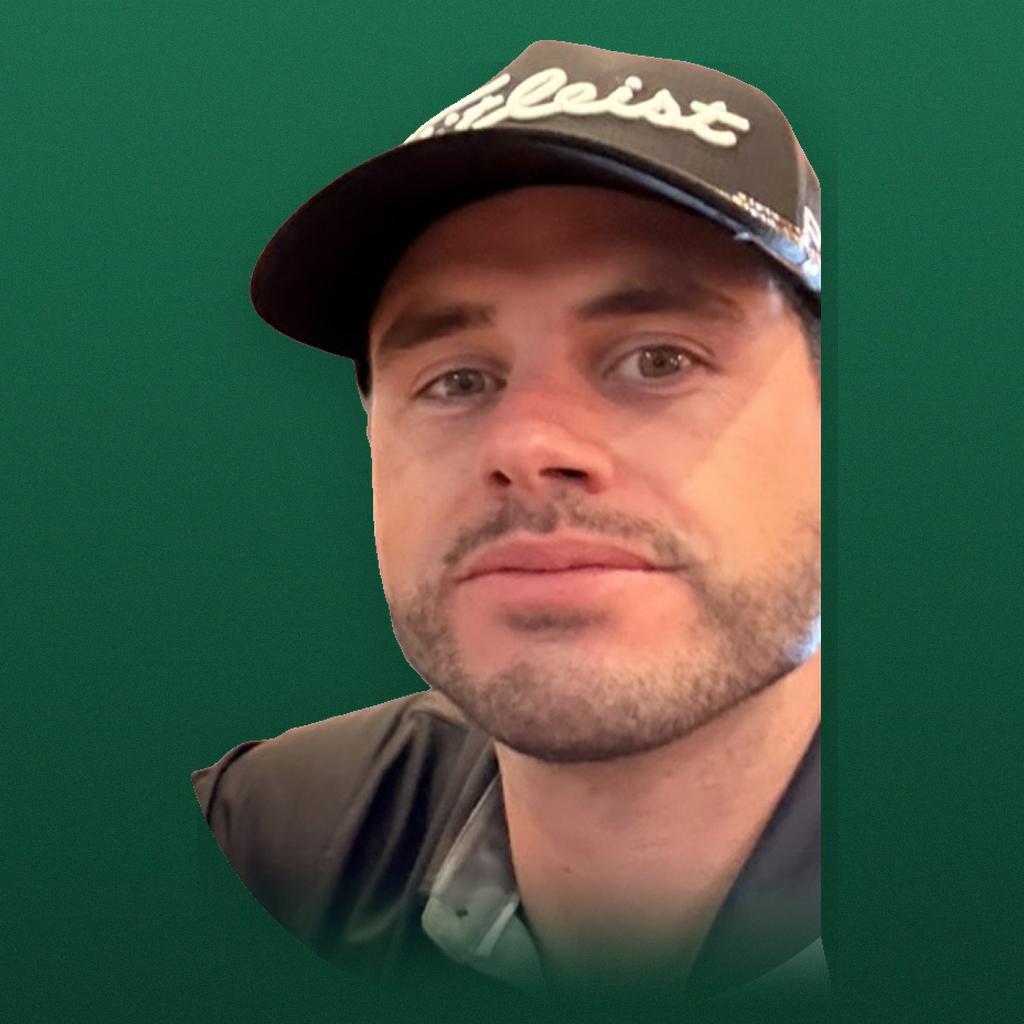
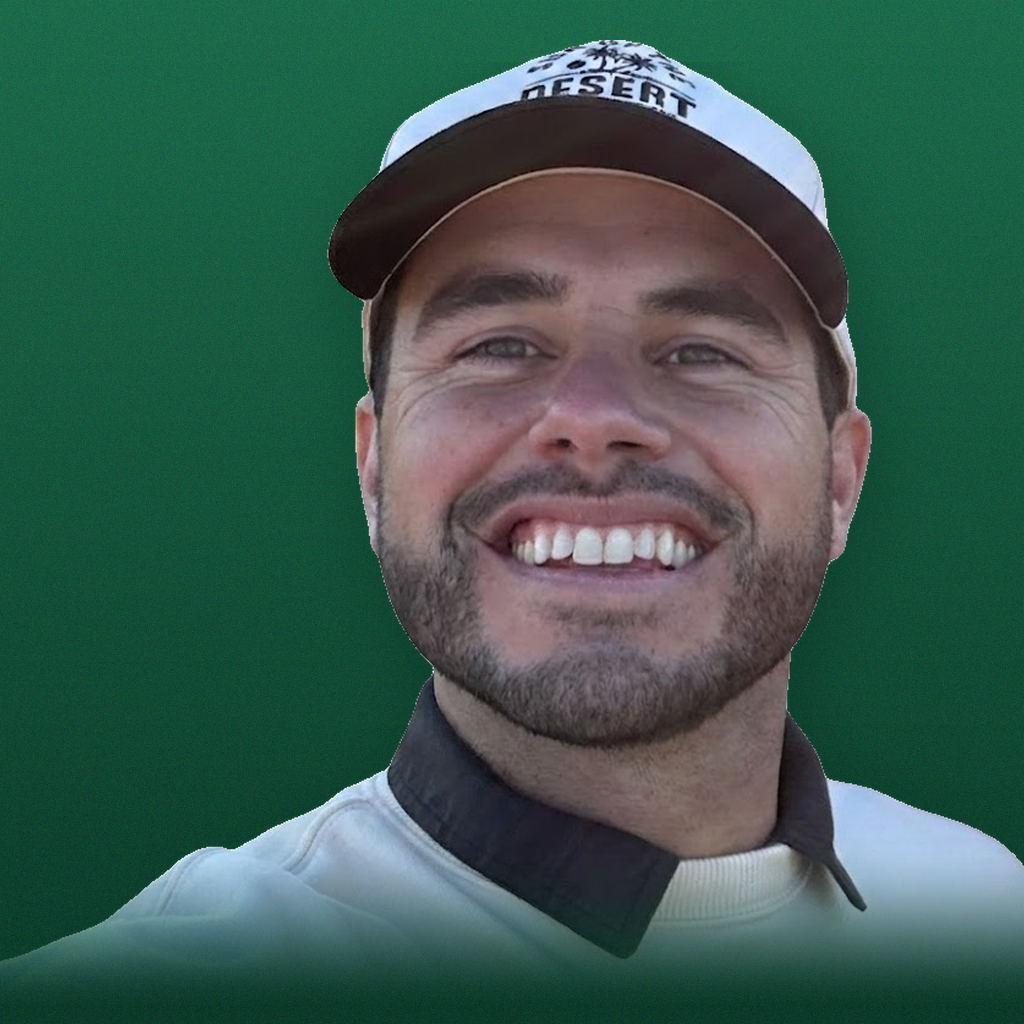
Update Lupo/Dan headshots; promote Tim into player 12
- Lupo, Dan: new source photos with clean white backgrounds replaced the
  rough phone crops. Same pipeline (re-cut → team gradient → grain →
  shadow → bottom feather) re-run against the better sources.
- Tim: same re-cut treatment, and lib/data.ts now promotes him from the
  TBD slot to player 12. All existing tbd-aware code (roster.tsx,
  scoreboard.tsx, player-avatar.tsx, .pavatar-disc.is-tbd) gates on the
  p.tbd flag, so dropping the flag lights him up as a normal player with
  no other changes.

Austin still on the old crop for now — better source photo coming later.

diff --git a/lib/data.ts b/lib/data.ts
@@ -114,7 +114,7 @@ export const ROSTER: Player[] = [
   { num: 9, name: "Dan", slug: "dan", team: "matt" },
   { num: 10, name: "Austin", slug: "austin", team: "matt" },
   { num: 11, name: "Bobby", slug: "bobby", team: "matt" },
-  { num: 12, name: "TBD", slug: "tbd", team: "matt", tbd: true },
+  { num: 12, name: "Tim", slug: "tim", team: "matt" },
 ];
 
 export const TOASTS = {